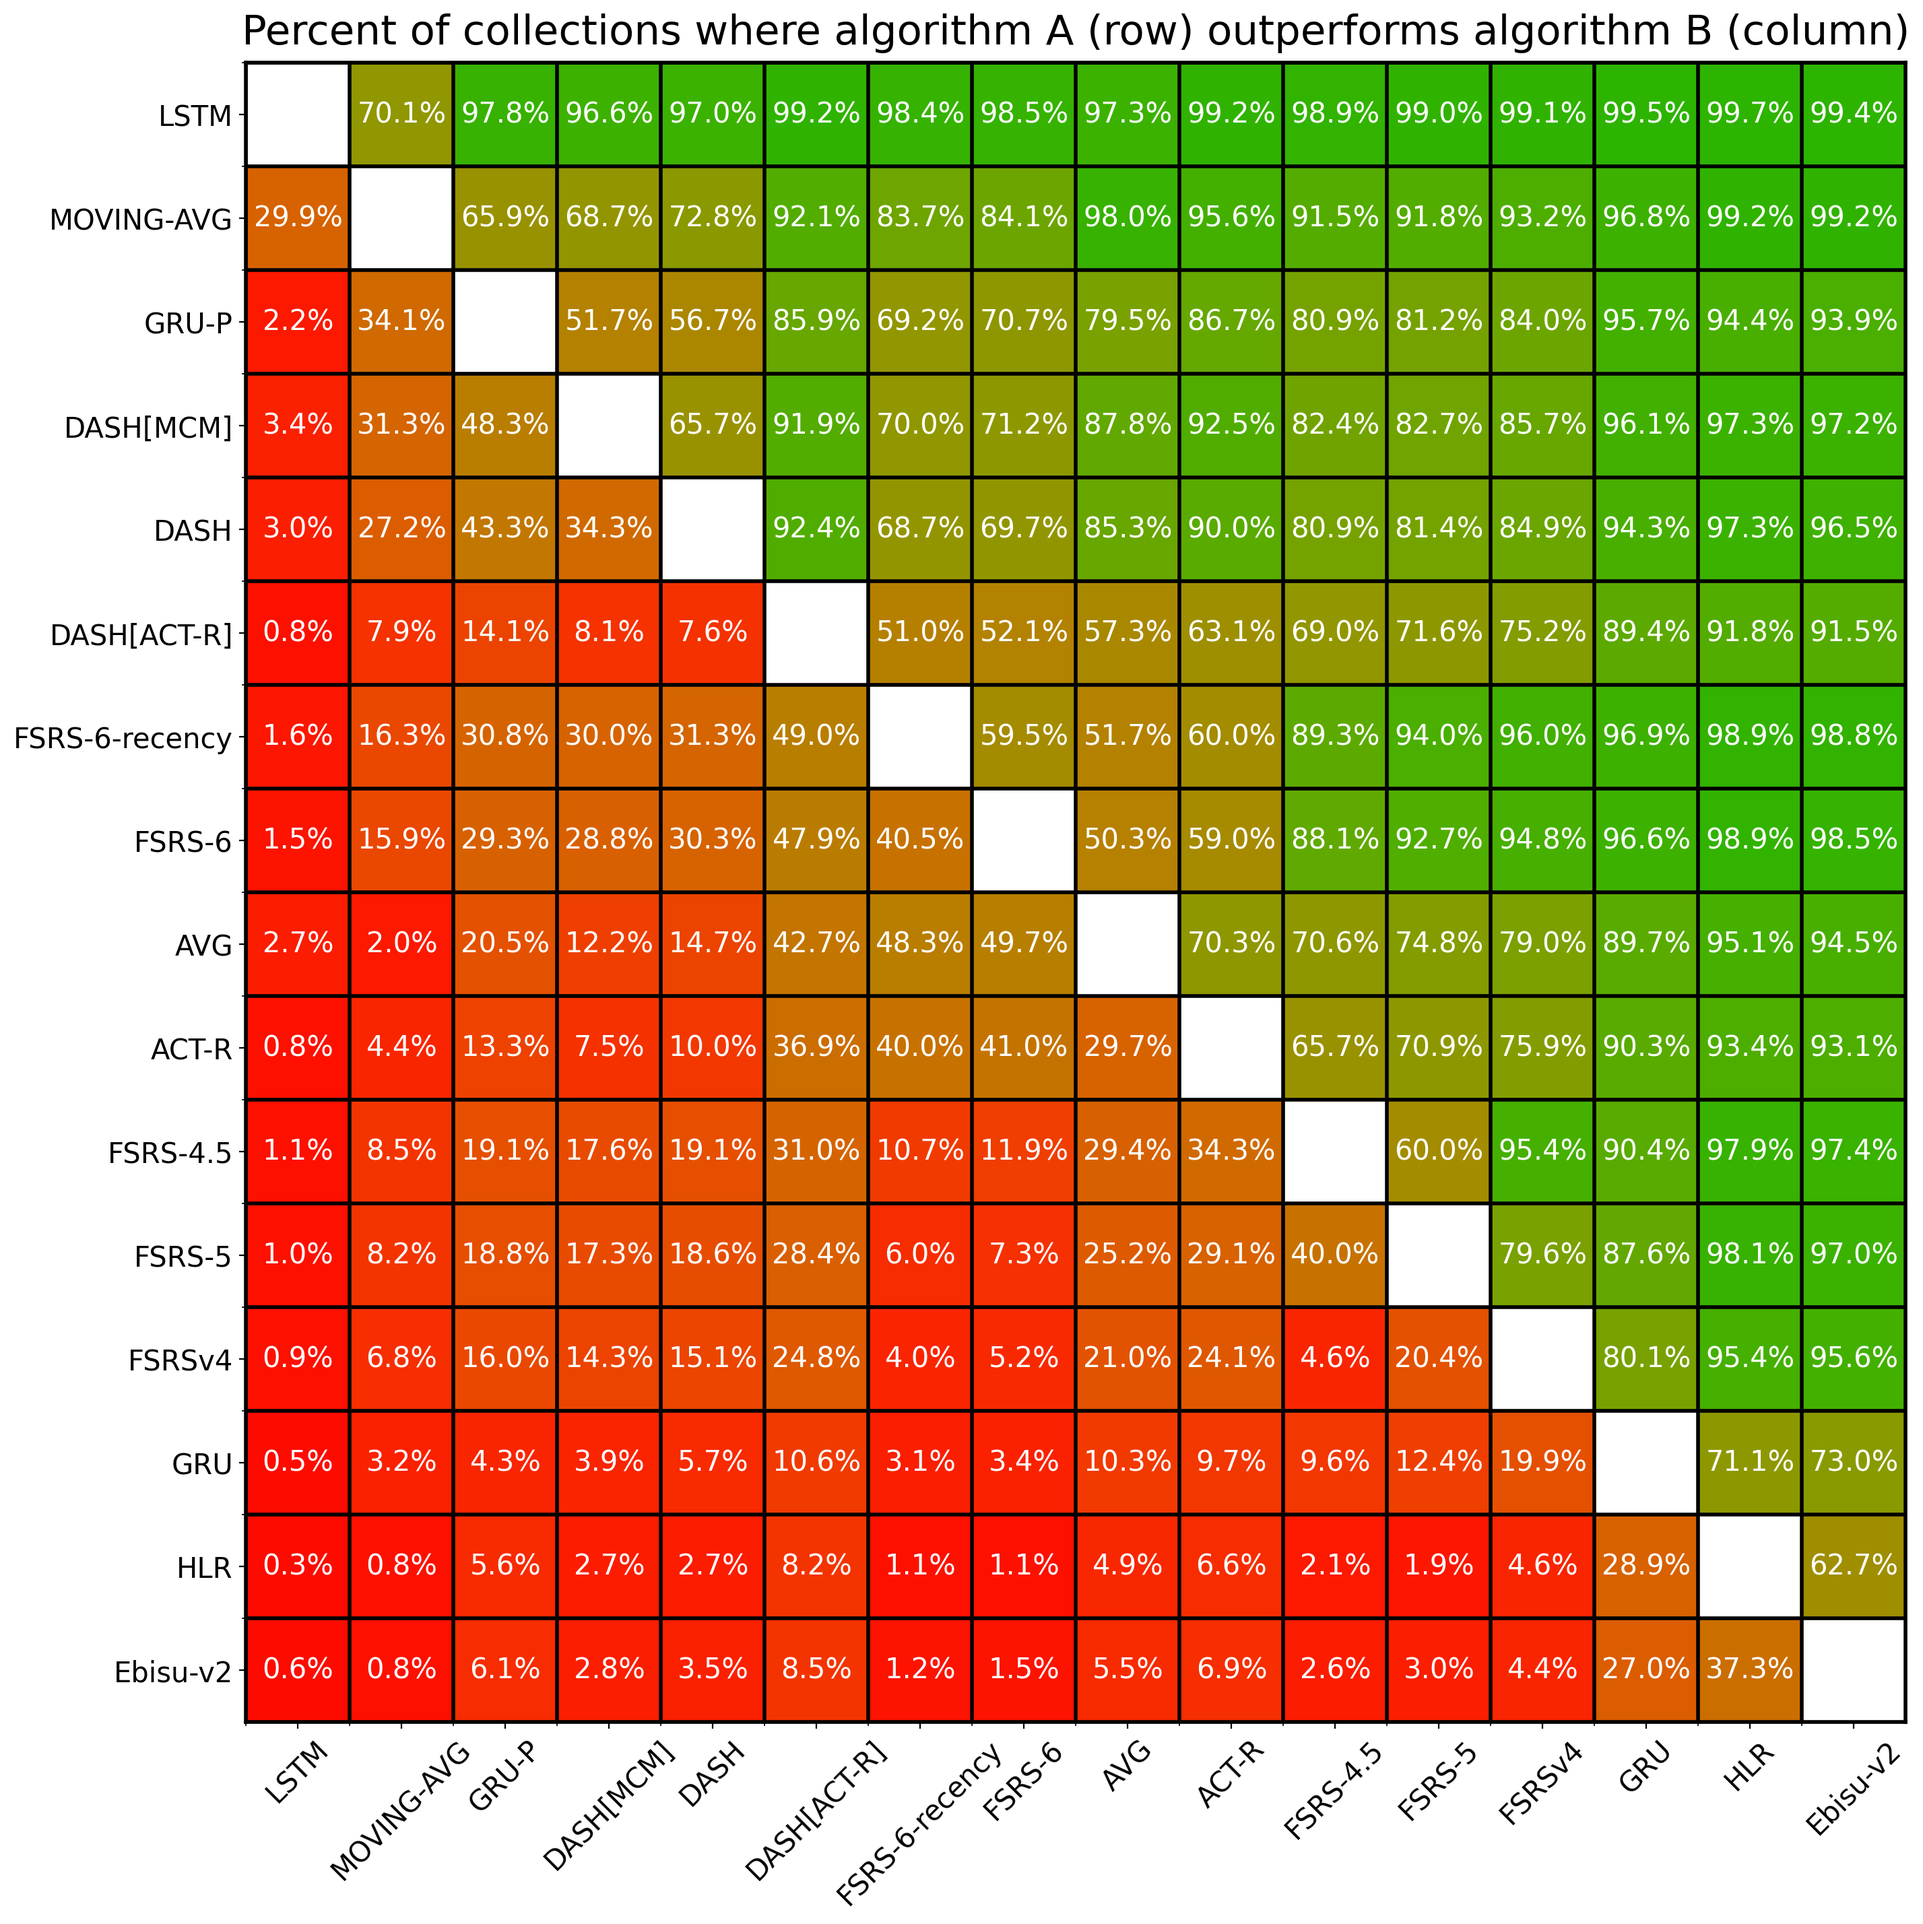
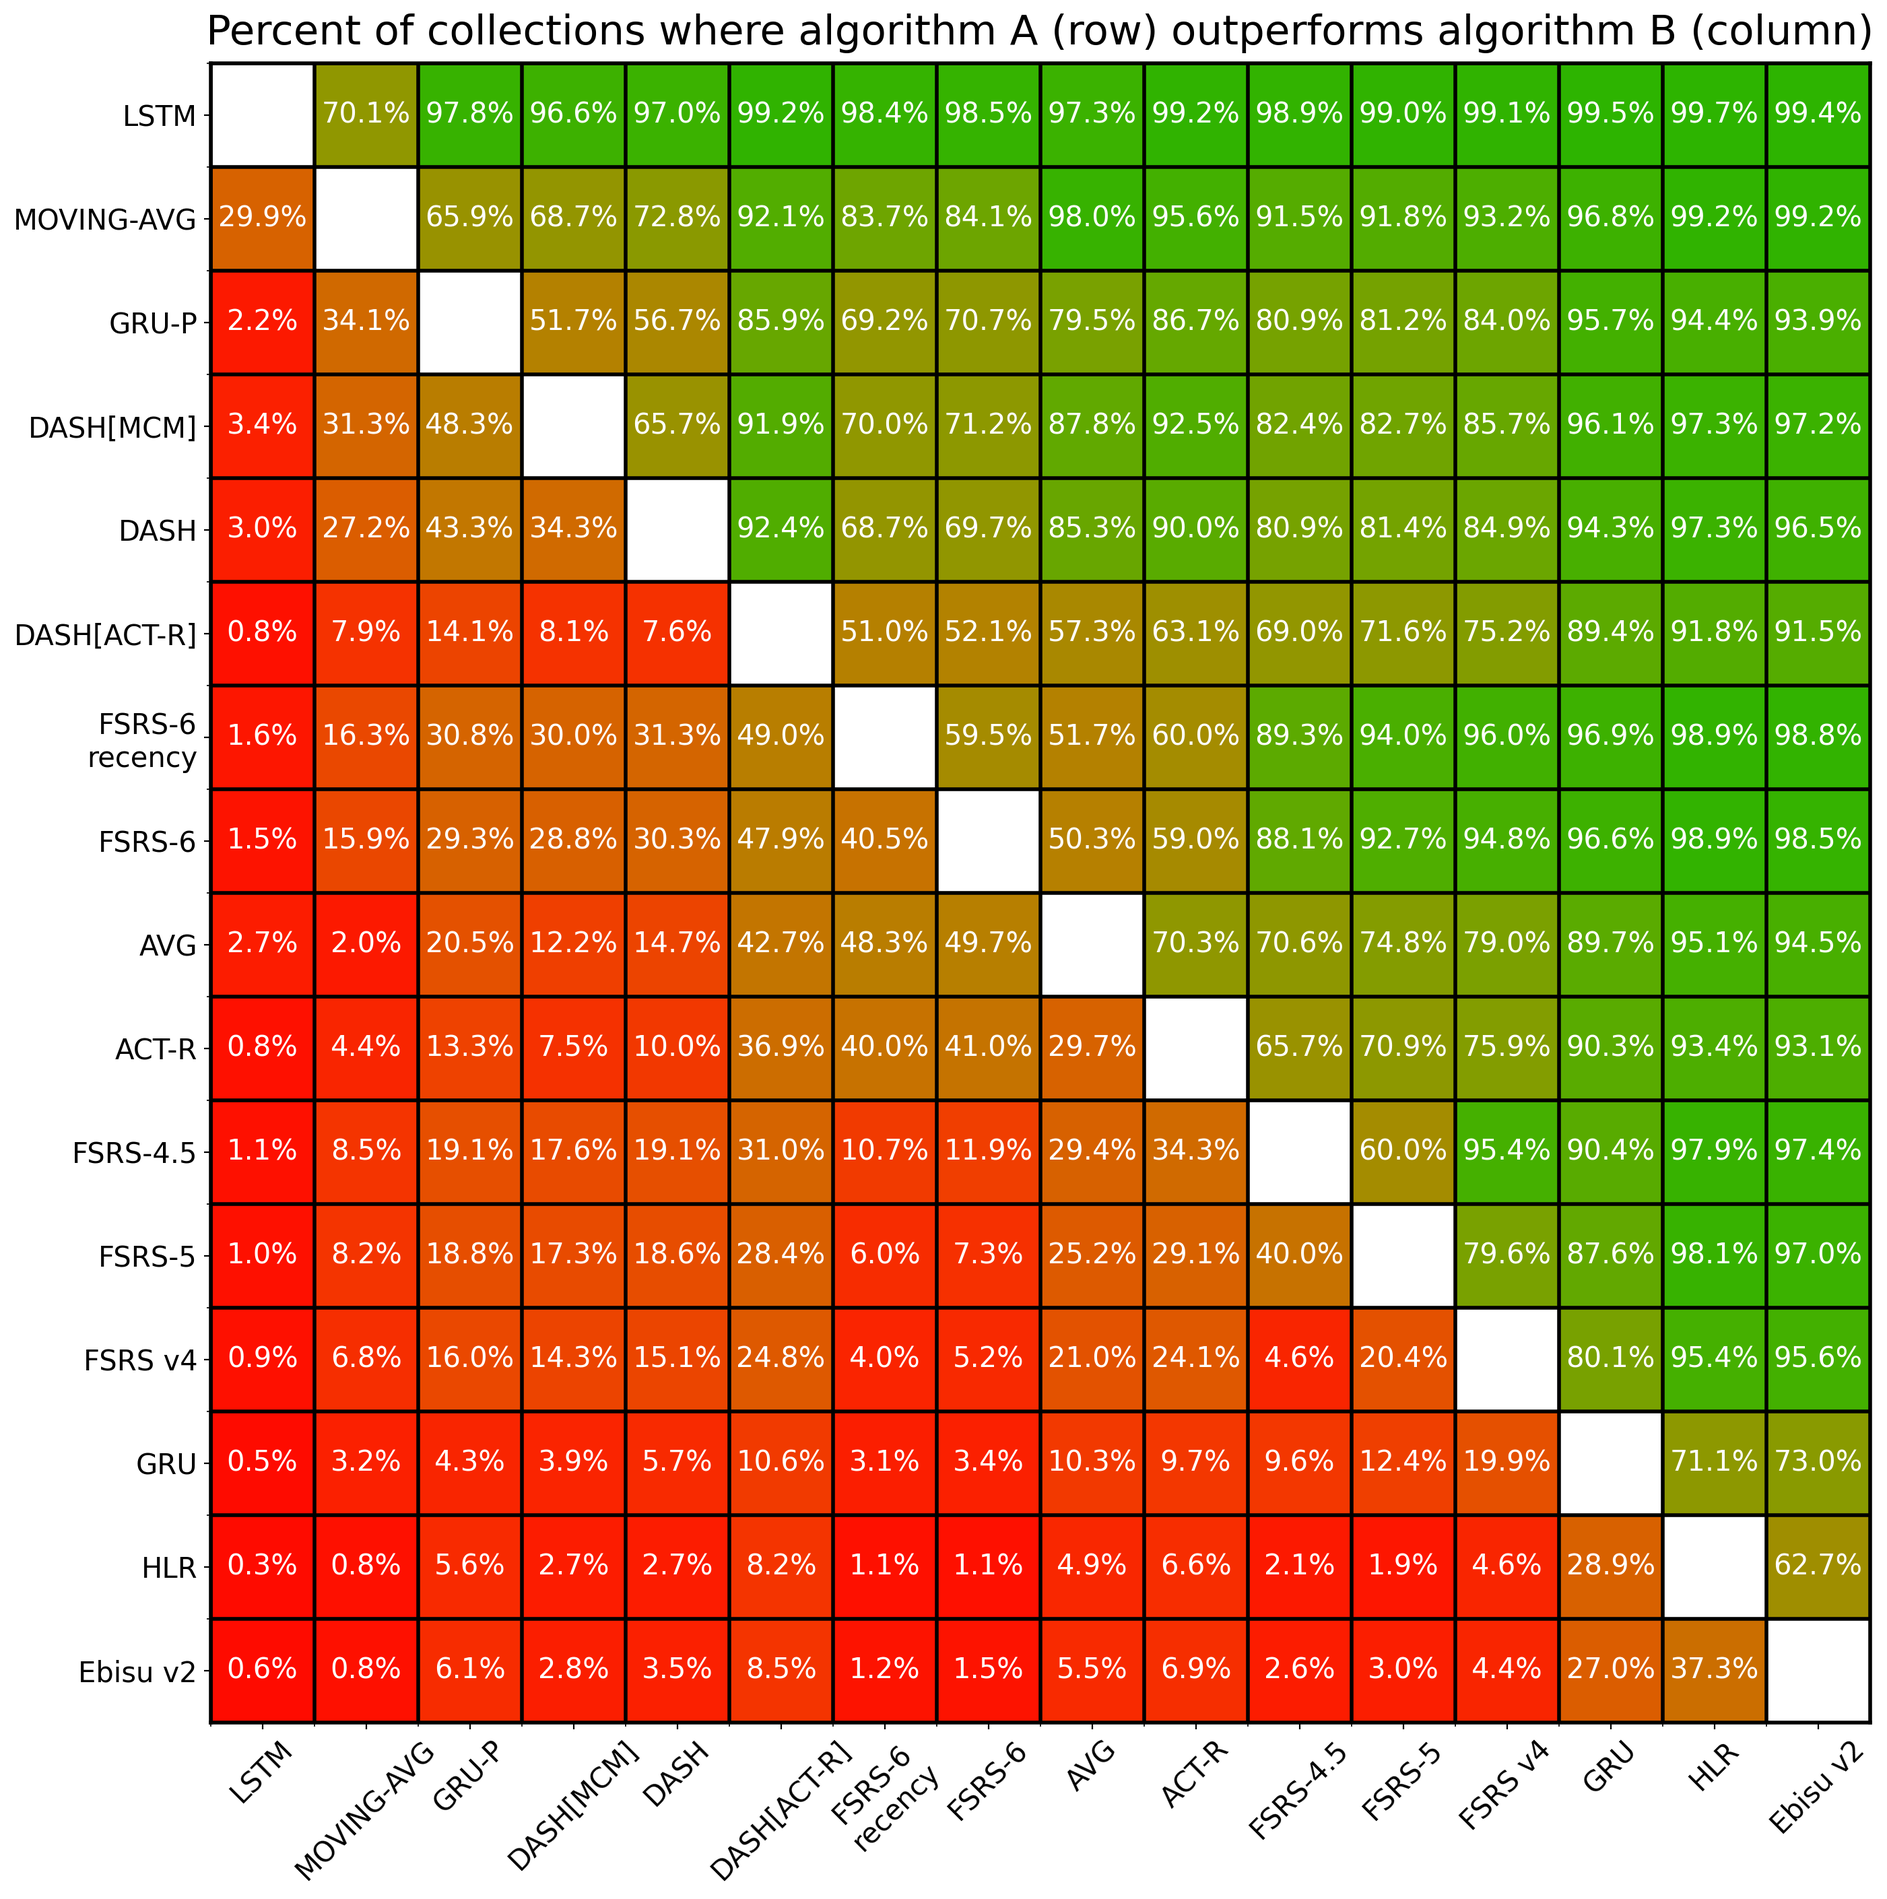
Fixed spaces (#269)
* Fixed spaces

* Adjust model label updates for same_day condition

Rearranged model label updates based on same_day argument.

* Update superiority_small.py

* [autofix.ci] apply automated fixes

* Update model label processing in superiority_small.py and modify binary plot files

---------

Changed region(s): [[0.0, 0.0, 0.9936, 0.9986], [0.3726, 0.9674, 0.4036, 0.9986], [0.1552, 0.9674, 0.1863, 0.9986]]

diff --git a/superiority_small.py b/superiority_small.py
@@ -126,18 +126,21 @@ if __name__ == "__main__":
                     percentages[j, i] = j_i_up
 
     # small changes to labels
-    if not args.same_day:
-        index_lstm = models.index("LSTM-short-secs-equalize_test_with_non_secs")
-        index_v4 = models.index("FSRSv4")
-        index_Ebisu_v2 = models.index("Ebisu-v2")
-        index_FSRS_6_recency = models.index("FSRS-6-recency")
-        models[index_lstm] = "LSTM"
-        models[index_v4] = "FSRS v4"
-        models[index_Ebisu_v2] = "Ebisu v2"
-        models[index_FSRS_6_recency] = "FSRS-6\nrecency"
-    else:
-        for i, model in enumerate(models):
-            models[i] = model.replace("-secs", "").replace("-short", "")
+    for i, model in enumerate(models):
+        models[i] = (
+            model.replace("-secs", "")
+            .replace("-short", "")
+            .replace("-equalize_test_with_non_secs", "")
+        )
+
+    index_lstm = models.index("LSTM")
+    index_v4 = models.index("FSRSv4")
+    index_Ebisu_v2 = models.index("Ebisu-v2")
+    index_FSRS_6_recency = models.index("FSRS-6-recency")
+    models[index_lstm] = "LSTM"
+    models[index_v4] = "FSRS v4"
+    models[index_Ebisu_v2] = "Ebisu v2"
+    models[index_FSRS_6_recency] = "FSRS-6\nrecency"
 
     fig, ax = plt.subplots(figsize=(16, 16), dpi=200)
     ax.set_title(

diff --git a/README.md b/README.md
@@ -152,12 +152,12 @@ Same-day reviews are used for evaluation. Here the probability of recall is calc
 | ACT-R | 5 | 0.3898±0.0049 | 0.1240±0.0017 | 0.5174±0.0028 | FIL, SR |
 | FSRS-4.5 | 17 | 0.4286±0.0060 | 0.1032±0.0014 | 0.6821±0.0023 | FIL, G, SR |
 | FSRS-5 | 19 | 0.4565±0.0069 | 0.1175±0.0017 | 0.6761±0.0023 | FIL, G, SR |
-| FSRSv4 | 17 | 0.4848±0.0077 | 0.1159±0.0017 | 0.6663±0.0024 | FIL, G, SR |
+| FSRS v4 | 17 | 0.4848±0.0077 | 0.1159±0.0017 | 0.6663±0.0024 | FIL, G, SR |
 | GRU | 39 | 0.590±0.010 | 0.1846±0.0027 | 0.5984±0.0031 | FIL, G, SR |
-| FSRSv3 | 13 | 0.647±0.012 | 0.1413±0.0021 | 0.6389±0.0025 | FIL, G, SR |
-| FSRSv2 | 14 | 0.663±0.012 | 0.1351±0.0019 | 0.6386±0.0023 | FIL, G, SR |
+| FSRS v3 | 13 | 0.647±0.012 | 0.1413±0.0021 | 0.6389±0.0025 | FIL, G, SR |
+| FSRS v2 | 14 | 0.663±0.012 | 0.1351±0.0019 | 0.6386±0.0023 | FIL, G, SR |
 | HLR | 3 | 0.705±0.014 | 0.1715±0.0024 | 0.6104±0.0028 | FIL, G, SR |
-| FSRSv1 | 7 | 0.744±0.015 | 0.1584±0.0023 | 0.6080±0.0026 | FIL, G, SR |
+| FSRS v1 | 7 | 0.744±0.015 | 0.1584±0.0023 | 0.6080±0.0026 | FIL, G, SR |
 | Ebisu v2 | 0 | 0.772±0.017 | 0.1846±0.0026 | 0.5947±0.0031 | FIL, G, SR |
 | **RMSE-BINS-EXPLOIT** | 0 | 4.129±0.059 | **0.01547±0.00026** | 0.6761±0.0021 | FIL, G, SR |
 
